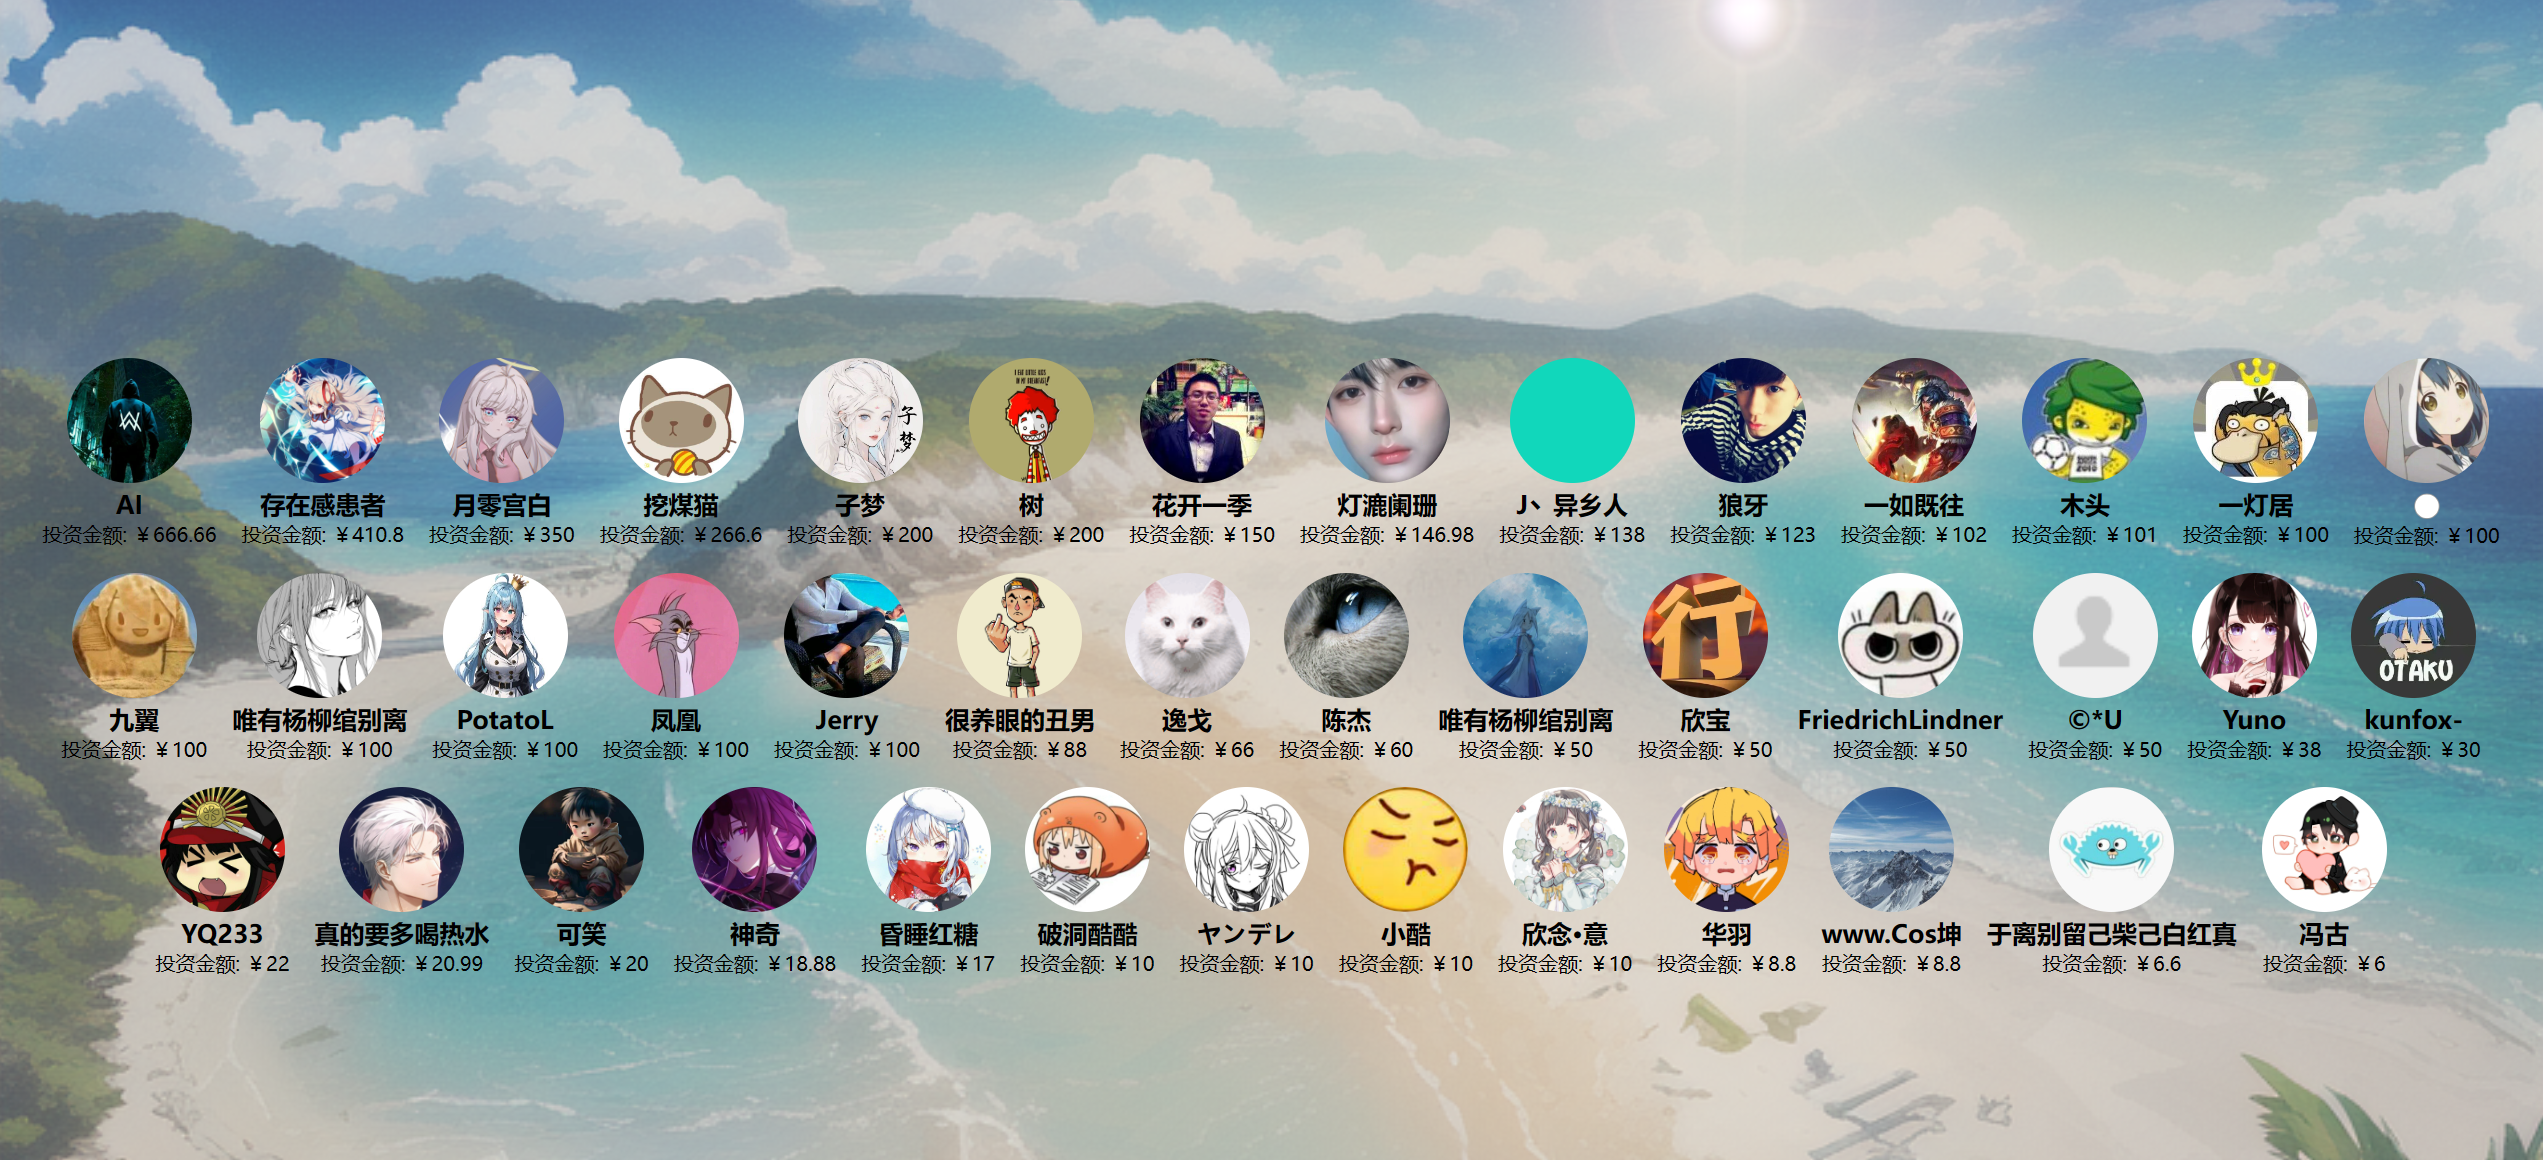
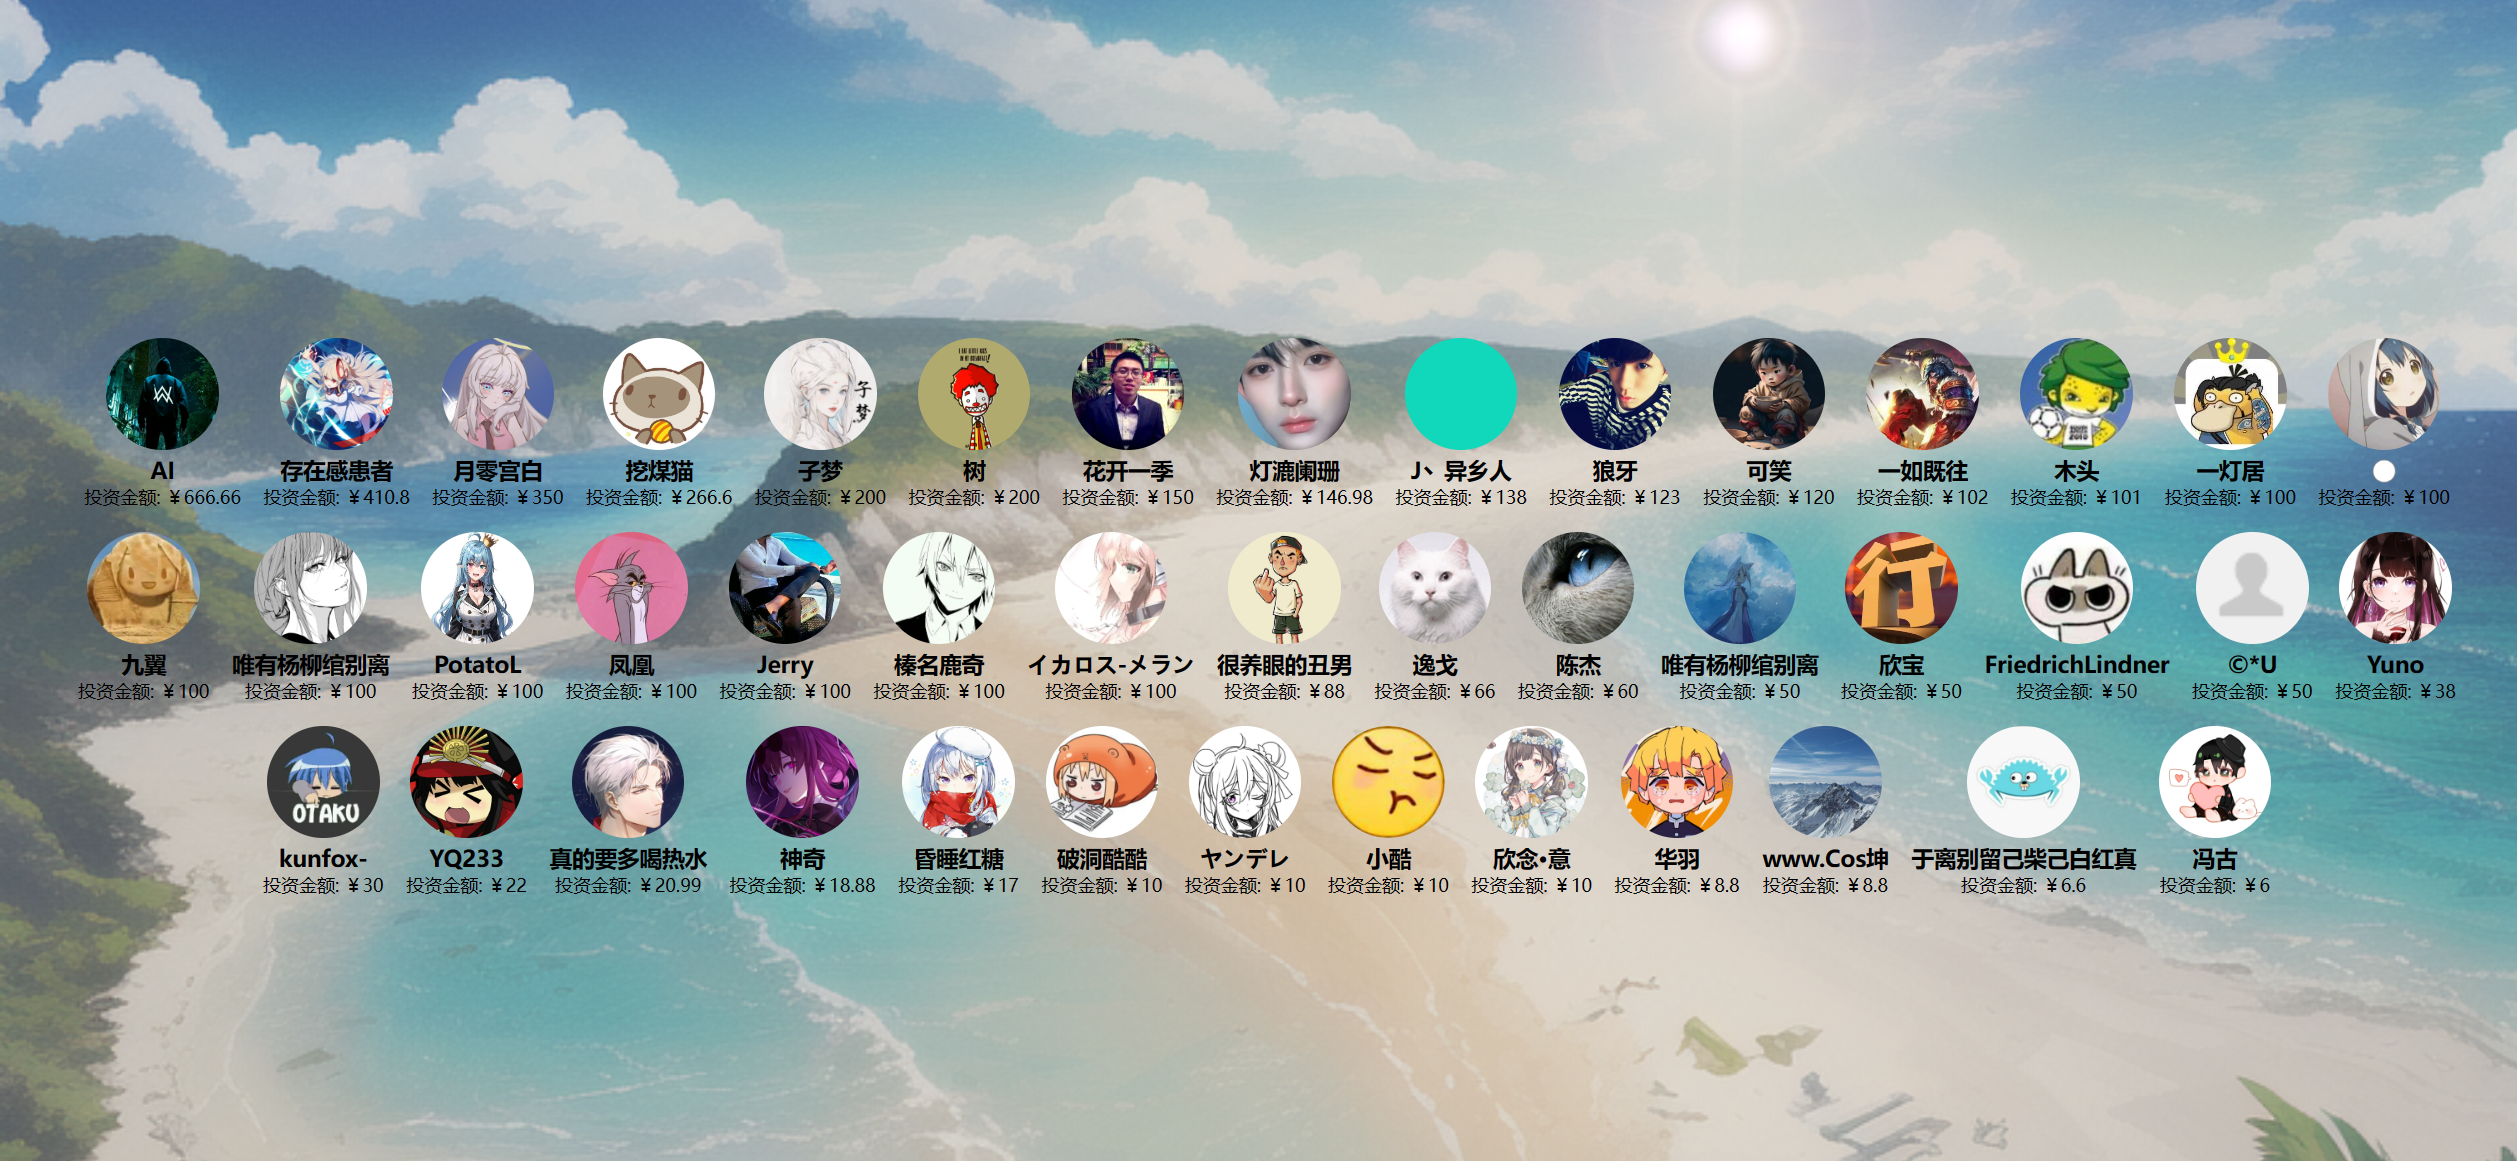
更新投资人信息

diff --git a/docs/投资人/index.html b/docs/投资人/index.html
@@ -102,6 +102,11 @@
             amount: "￥123"
         },
         {
+            name: "可笑",
+            avatar: "https://images.cnblogs.com/cnblogs_com/ikaros-521/2328032/o_230820095537_QQ%E5%9B%BE%E7%89%8720230820175506.jpg",
+            amount: "￥120"
+        },
+        {
             name: "一如既往",
             avatar: "https://images.cnblogs.com/cnblogs_com/ikaros-521/2328032/o_230719123315_%E4%B8%80%E5%A6%82%E6%97%A2%E5%BE%80.jpg",
             amount: "￥102"
@@ -144,6 +149,16 @@
         {
             name: "Jerry",
             avatar: "https://images.cnblogs.com/cnblogs_com/ikaros-521/2328032/o_230926154835_%E5%BE%AE%E4%BF%A1%E5%9B%BE%E7%89%87_20230926234750.jpg",
+            amount: "￥100"
+        },
+        {
+            name: "榛名鹿奇",
+            avatar: "https://images.cnblogs.com/cnblogs_com/ikaros-521/2328032/o_231007064418_817464ce72638a612dc65eca7c9eb73ffeb4cc30.jpg",
+            amount: "￥100"
+        },
+        {
+            name: "イカロス-メラン",
+            avatar: "https://images.cnblogs.com/cnblogs_com/ikaros-521/2328032/o_231007064418_7d935549ce8991debc4091d9ee881a4cdc4622ac.jpg",
             amount: "￥100"
         },
         {
@@ -200,11 +215,6 @@
             name: "真的要多喝热水",
             avatar: "https://images.cnblogs.com/cnblogs_com/ikaros-521/2328032/o_230814144413_QQ%E5%9B%BE%E7%89%8720230814224327.jpg",
             amount: "￥20.99"
-        },
-        {
-            name: "可笑",
-            avatar: "https://images.cnblogs.com/cnblogs_com/ikaros-521/2328032/o_230820095537_QQ%E5%9B%BE%E7%89%8720230820175506.jpg",
-            amount: "￥20"
         },
         {
             name: "神奇",
